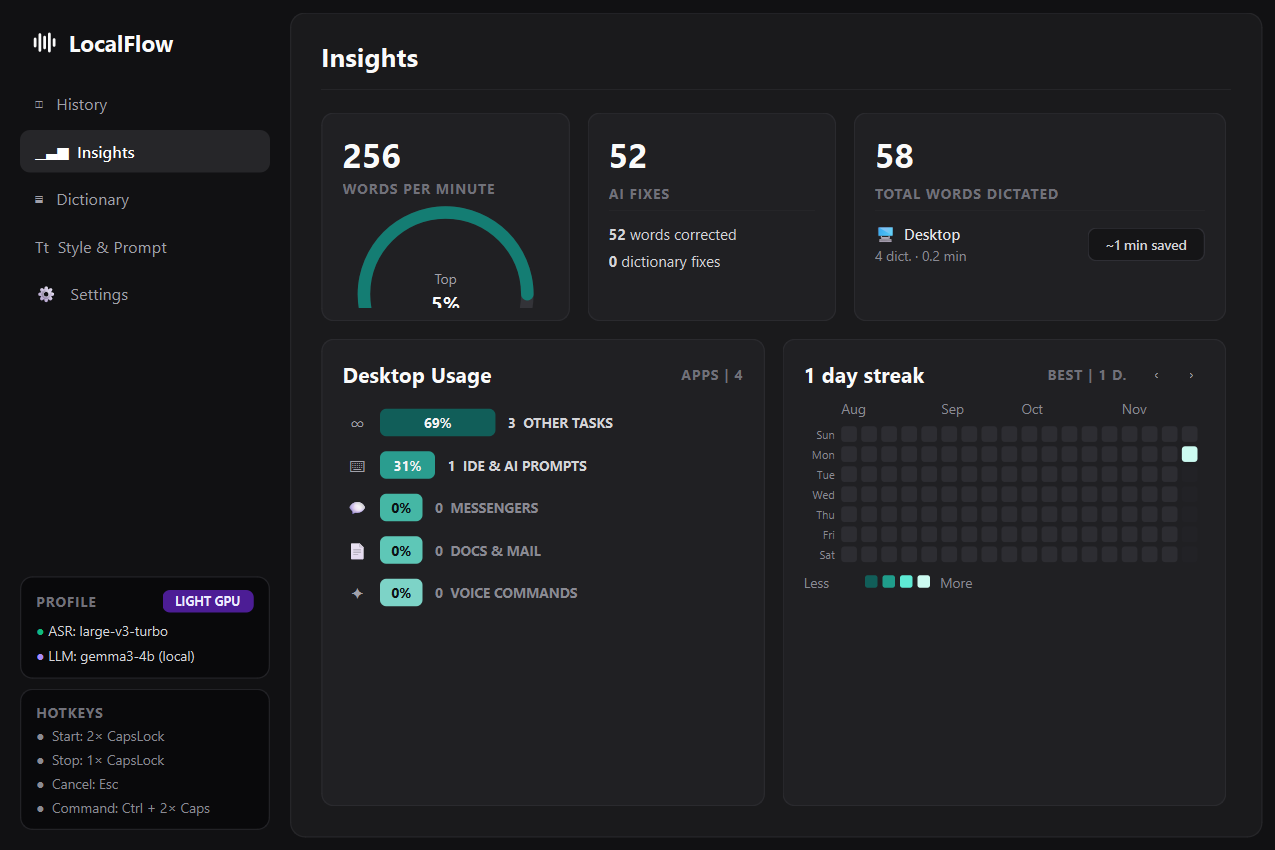
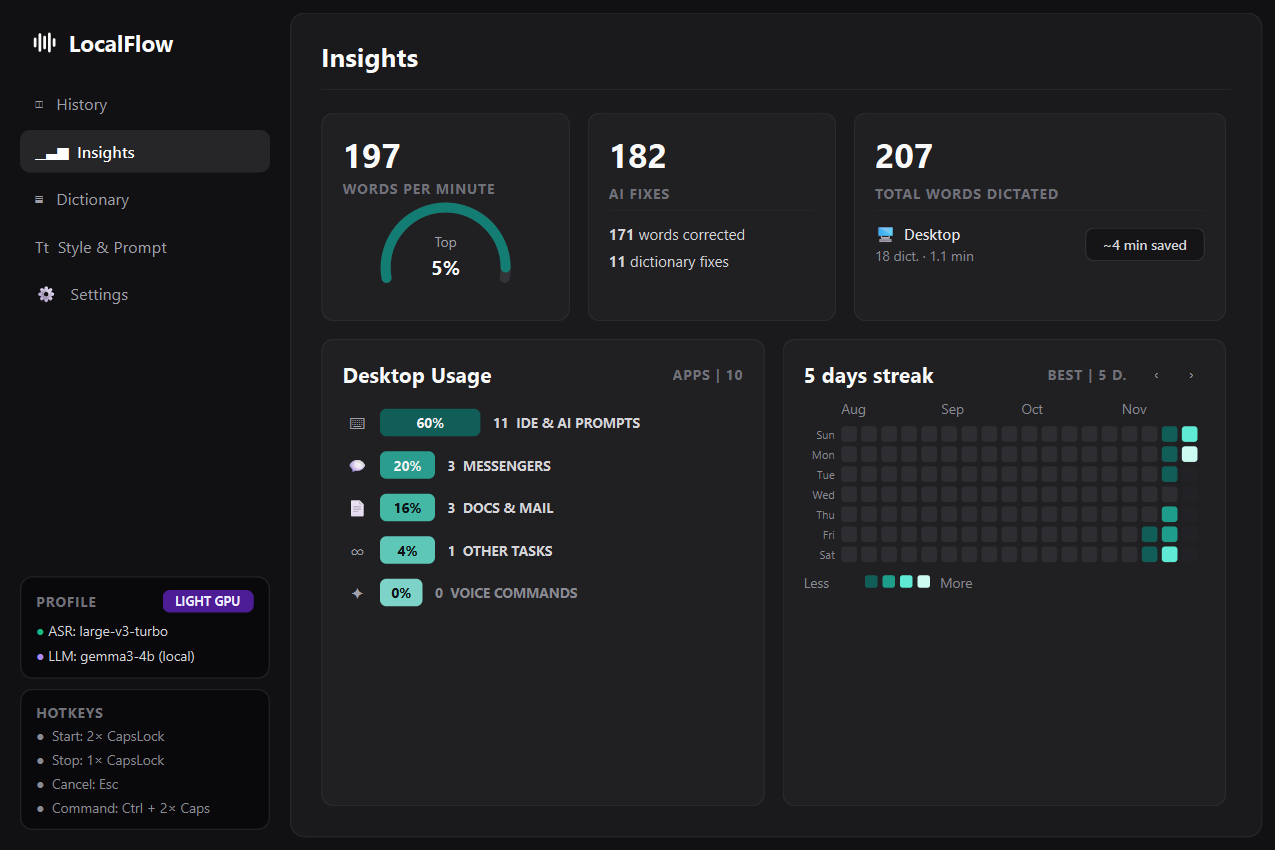
fix(ui): prevent ArcGaugeWidget text clipping and refresh insights screenshot

diff --git a/src/localflow/ui/insights_page.py b/src/localflow/ui/insights_page.py
@@ -86,11 +86,11 @@ class _ArcGaugeWidget(QWidget):
         p.setRenderHint(QPainter.RenderHint.Antialiasing)
         is_light = self._theme == "light"
 
-        stroke = 10.0
-        diam = min(self.width() - stroke * 2 - 12.0, (self.height() - stroke) * 1.72)
-        diam = max(72.0, diam)
+        stroke = 8.0
+        diam = min(self.width() - stroke * 2 - 16.0, 96.0)
+        diam = max(70.0, diam)
         x = (self.width() - diam) / 2.0
-        y = 10.0
+        y = 6.0
         arc_rect = QRectF(x, y, diam, diam)
 
         # Background track (200-degree wide semi-arc)
@@ -108,24 +108,23 @@ class _ArcGaugeWidget(QWidget):
             p.drawArc(arc_rect, 190 * 16, int(-200 * ratio * 16))
 
         # Center labels
-        center_y = y + diam * 0.44
         if self._wpm > 0:
             p.setPen(QColor("#63636e") if is_light else QColor("#a1a1aa"))
-            p.setFont(QFont("Segoe UI", 8.5, QFont.Weight.Medium))
-            p.drawText(QRectF(x, center_y - 14, diam, 18), Qt.AlignmentFlag.AlignCenter, "Top")
+            p.setFont(QFont("Segoe UI", 8, QFont.Weight.Medium))
+            p.drawText(QRectF(x, y + diam * 0.20, diam, 15), Qt.AlignmentFlag.AlignCenter, "Top")
 
             p.setPen(QColor("#111113") if is_light else QColor("#fafafa"))
             p.setFont(QFont("Segoe UI", 12, QFont.Weight.Bold))
             p.drawText(
-                QRectF(x, center_y + 4, diam, 22),
+                QRectF(x, y + diam * 0.38, diam, 22),
                 Qt.AlignmentFlag.AlignCenter,
                 f"{self._top_percent}%",
             )
         else:
             p.setPen(QColor("#71717a"))
-            p.setFont(QFont("Segoe UI", 9, QFont.Weight.Medium))
+            p.setFont(QFont("Segoe UI", 8.5, QFont.Weight.Medium))
             p.drawText(
-                QRectF(x, center_y - 4, diam, 22),
+                QRectF(x, y + diam * 0.28, diam, 20),
                 Qt.AlignmentFlag.AlignCenter,
                 tr("insights.no_data", self._lang),
             )
